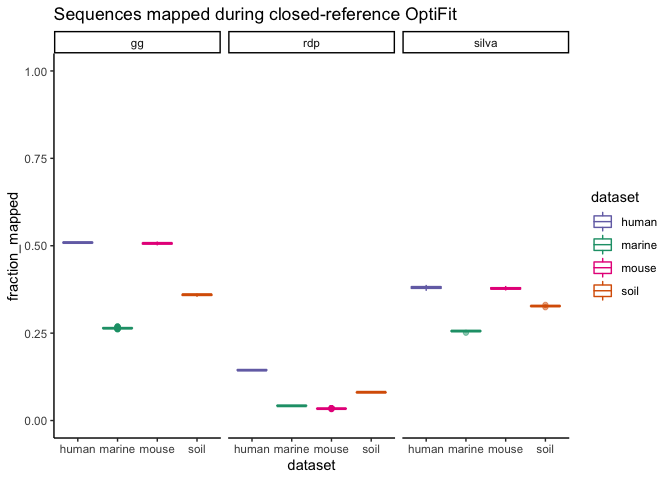
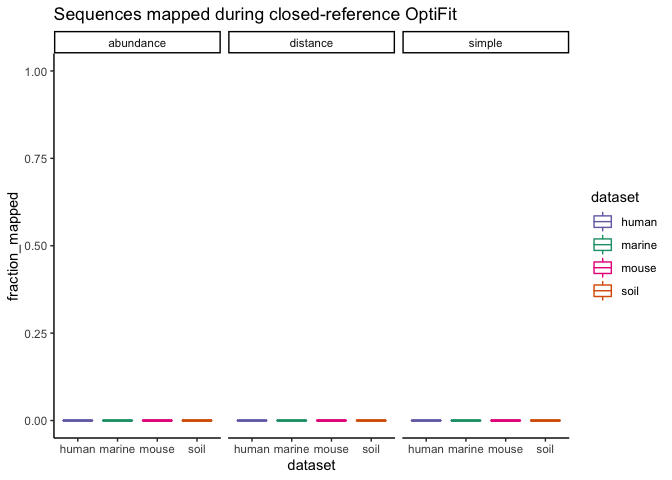
Setup notebook for subworkflow 3

diff --git a/exploratory/2020/sub3_fit_subsets.md b/exploratory/2020/sub3_fit_subsets.md
@@ -1,0 +1,73 @@
+Exploratory Plots
+================
+Aug. 2020
+
+``` r
+library(cowplot)
+library(ggtext)
+library(here)
+library(knitr)
+library(tidyverse)
+theme_set(theme_classic())
+color_palette <- RColorBrewer::brewer.pal(4, "Dark2")
+dataset_colors <- c(
+  human = color_palette[[3]],
+  marine = color_palette[[1]],
+  mouse = color_palette[[4]],
+  soil = color_palette[[2]]
+)
+```
+
+``` r
+sensspec_fit <-
+  read_tsv(here('subworkflows/3_fit_sample_subset/results/sensspec.tsv'))
+```
+
+## Subsetting datasets with different reference sizes
+
+``` r
+sensspec_fit %>%
+  group_by(dataset, method) %>%
+  ggplot(aes(x = ref_frac, y = mcc, color = dataset)) +
+  geom_point(alpha = 0.5) +
+  scale_color_manual(values = dataset_colors) +
+  ylim(0.5, 1) +
+  facet_grid(method ~ ref_weight)
+```
+
+![](figures/fit_ref_frac-1.png)<!-- -->
+
+sample fraction = 0.2
+
+## Runtime
+
+``` r
+benchmarks_fit <-
+  read_tsv(here('subworkflows/2_fit_reference_db/results/benchmarks.tsv'))
+benchmarks_fit %>% 
+    group_by(dataset, method) %>%
+    ggplot(aes(x = method, y = s, color = dataset)) +
+    geom_boxplot() +
+    scale_color_manual(values = dataset_colors) +
+    #facet_wrap("ref_weight") +
+    ylim(0,2100) +
+    labs(y = 'seconds') +
+    theme(axis.title.x = element_blank())
+```
+
+![](figures/unnamed-chunk-2-1.png)<!-- -->
+
+## Fraction of sequences that map to the reference
+
+``` r
+fractions <- read_tsv(here('subworkflows/3_fit_sample_subset/results/fraction_reads_mapped.tsv'))
+fractions %>% 
+  ggplot(aes(x=dataset, y=fraction_mapped, color=dataset)) +
+  geom_boxplot(alpha = 0.5) +
+  scale_color_manual(values = dataset_colors) +
+  facet_wrap("ref_weight") +
+  ylim(0, 1) +
+  labs(title="Sequences mapped during closed-reference OptiFit")
+```
+
+![](figures/fraction_reads_mapped-1.png)<!-- -->

diff --git a/exploratory/2020/sub2_fit_dbs.md b/exploratory/2020/sub2_fit_dbs.md
@@ -1,6 +1,6 @@
 Exploratory Plots
 ================
-5/27/2020
+May 2020
 
 ``` r
 library(cowplot)
